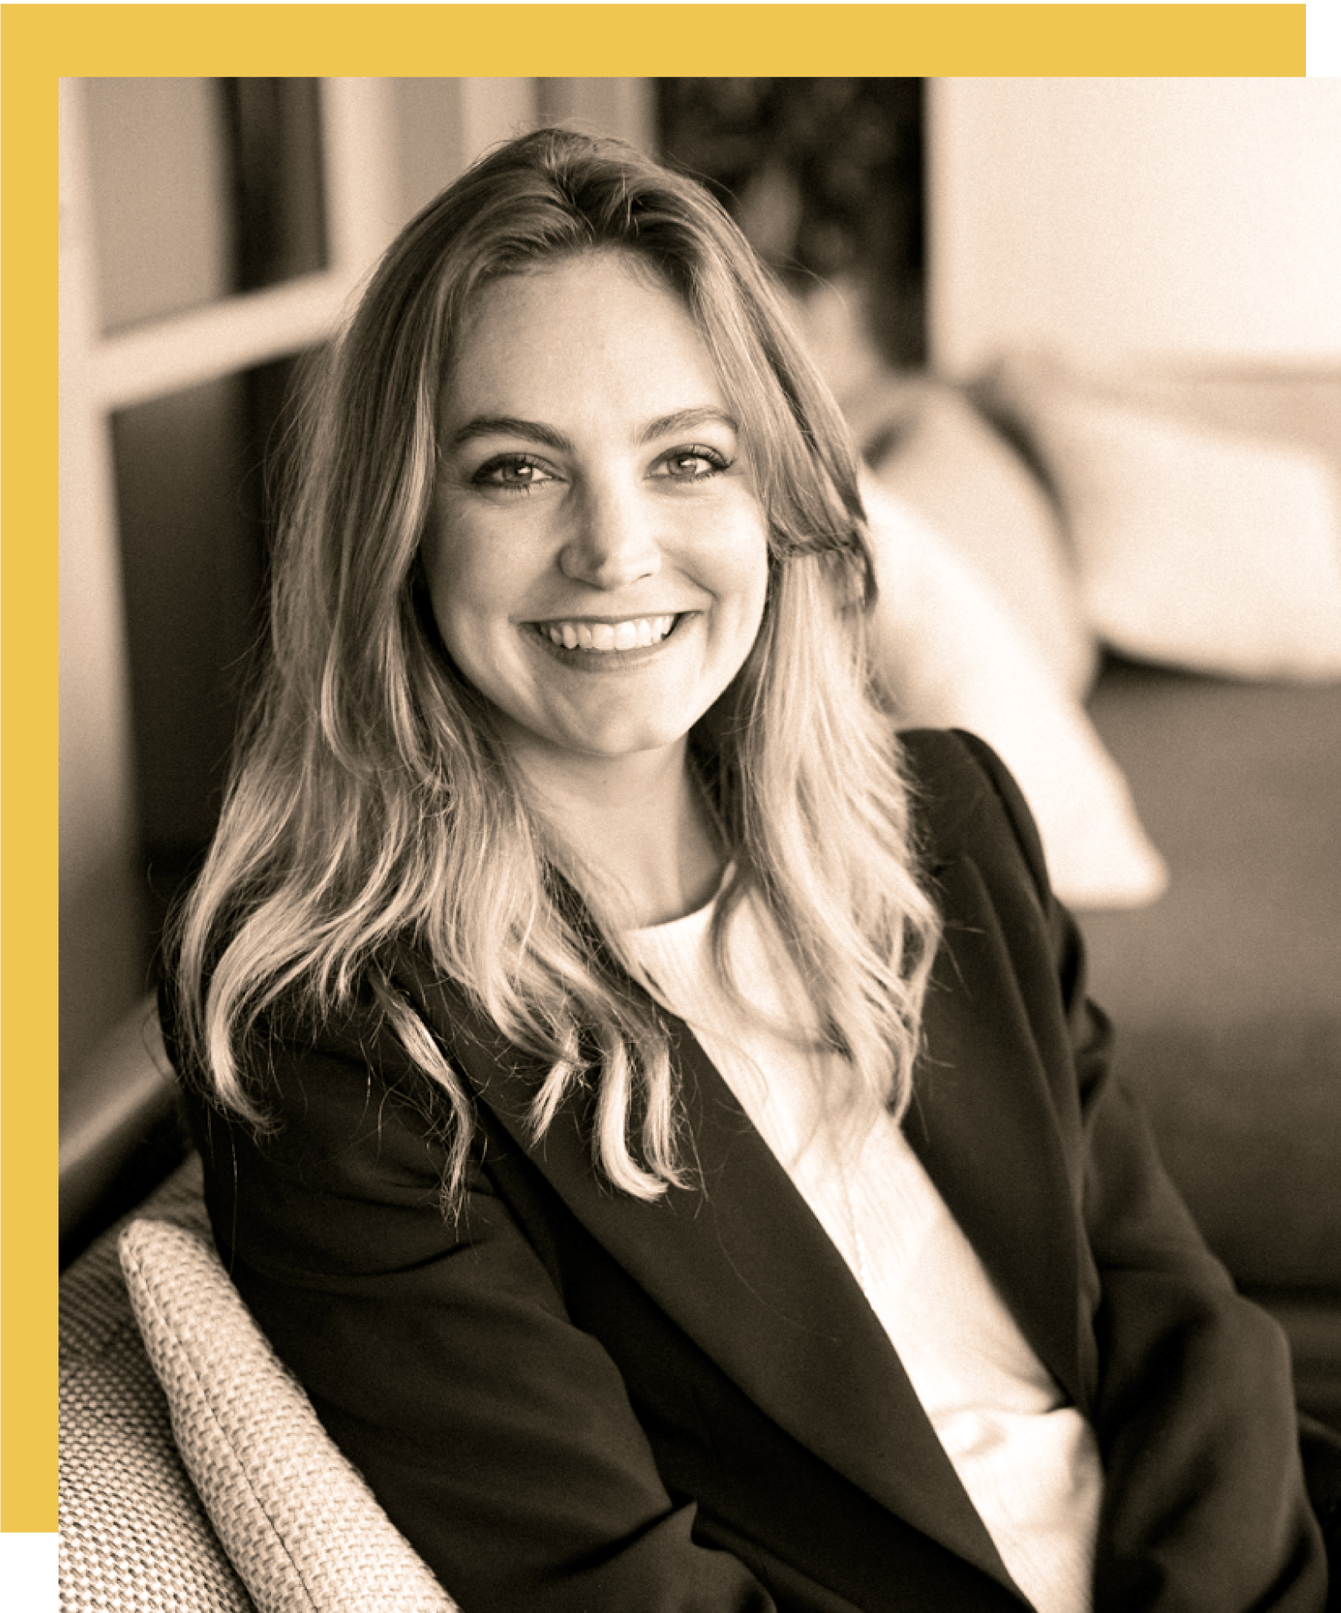
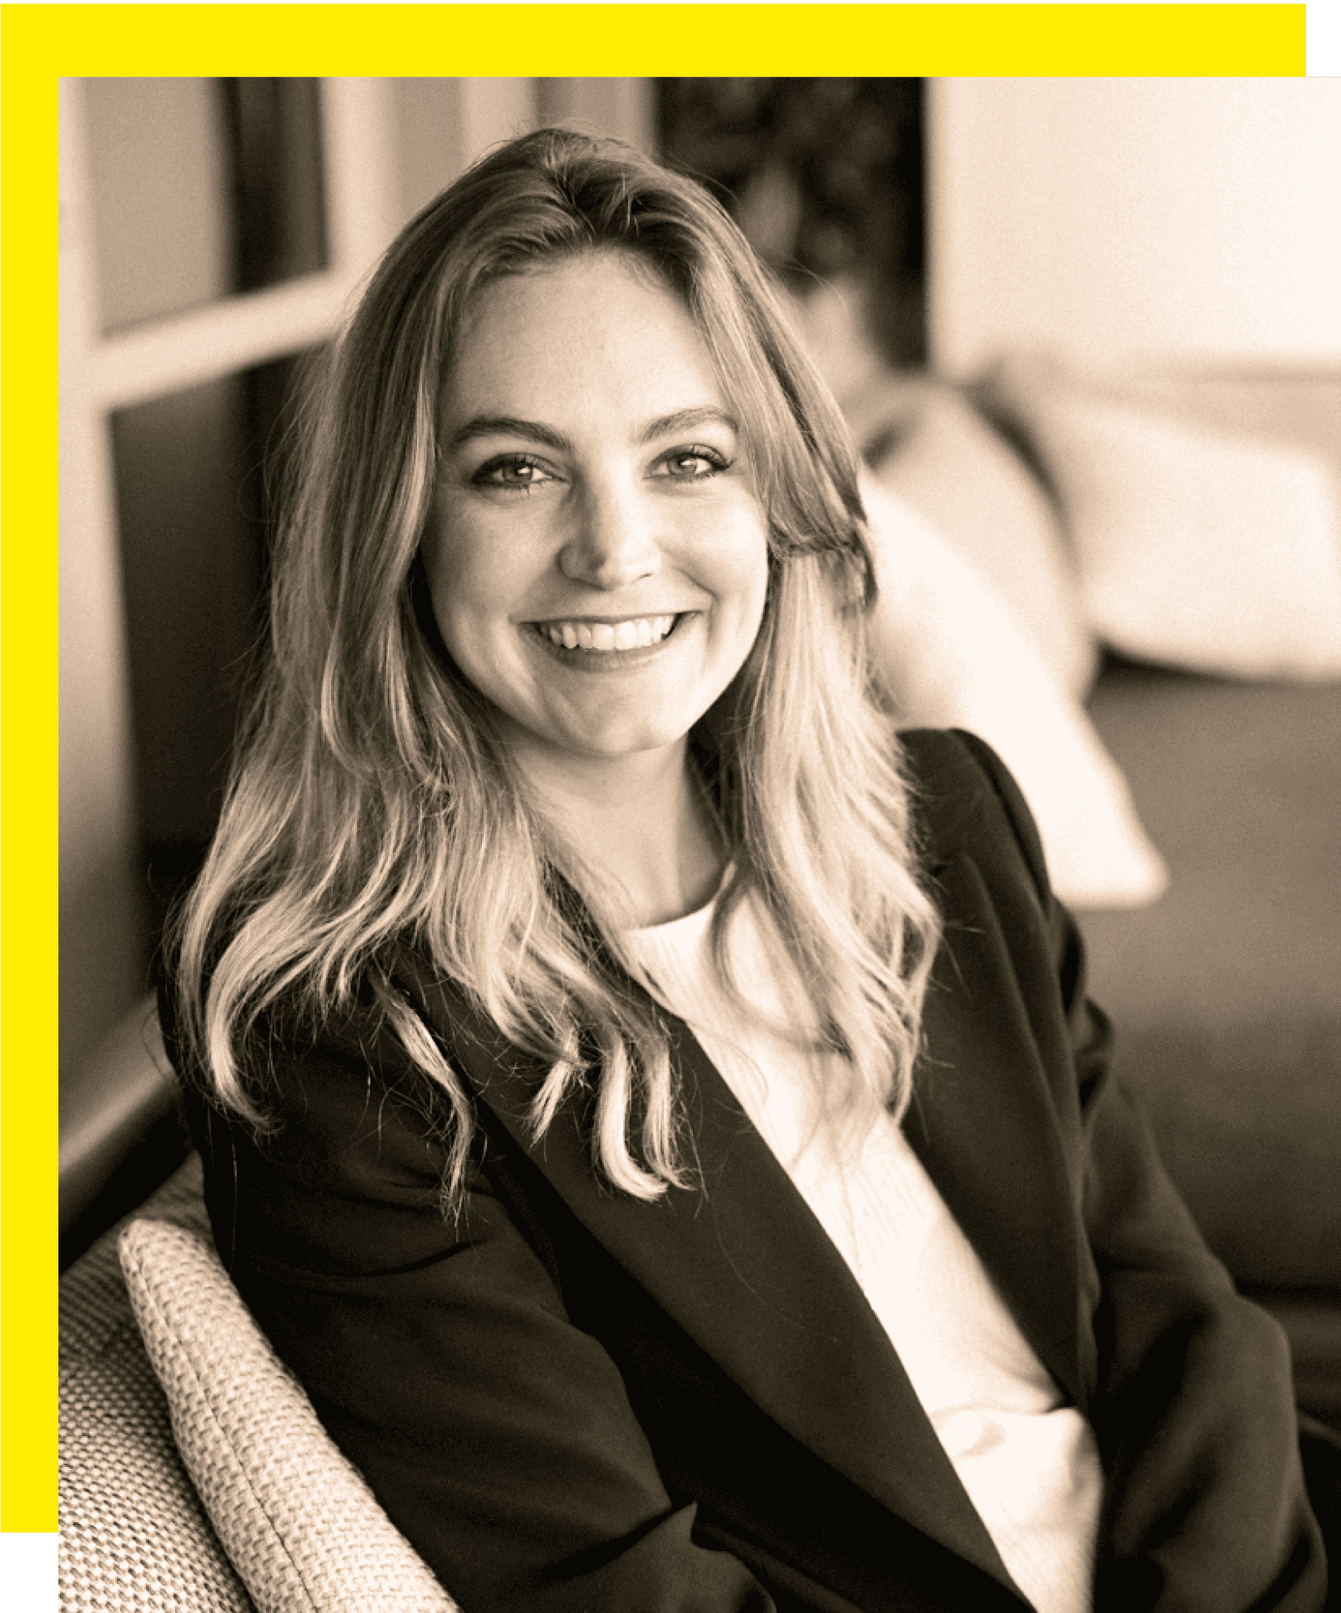
new da

Changed region(s): [[0.0, 0.0, 0.995, 0.9622]]

diff --git a/src/pages/Series.jsx b/src/pages/Series.jsx
@@ -95,24 +95,24 @@ function Series() {
         <section className="series-section synopsis">
           <div className="synopsis-text">
             <p>
-              <strong>DEEPBLUE</strong>, the once-legendary French cycling team, is shattered after a spectacular crash during a stage of the Tour de France. <strong>NORA</strong>, a ruthless and opportunistic businesswoman, seizes the opportunity to buy the team for next to nothing, with the goal of restructuring it and turning a profit. A complete outsider to the cycling world, she makes bold and radical decisions that upend the team's balance and challenge the methods of its long-standing sports director. She manages to convince Matteo, the aging star rider, to stay with Deepblue. But that choice comes at a cost: Caterina, his mother and manager, breaks away and follows Andres, Matteo's most loyal teammate, who now becomes his fiercest rival as the new leader of a powerful competing team.
+              <strong>DEEPBLUE</strong>, the once-legendary French cycling team, is shattered after a spectacular crash during a stage of the Tour de France. <strong>Nora</strong>, a ruthless and opportunistic businesswoman, seizes the opportunity to buy the team for next to nothing, with the goal of restructuring it and turning a profit. A complete outsider to the cycling world, she makes bold and radical decisions that upend the team's balance and challenge the methods of its long-standing sports director. She manages to convince Mathias, the aging star rider, to stay with Deepblue. But that choice comes at a cost: Caterina, his mother and manager, breaks away and follows Andrea, Mathias's most loyal teammate, who now becomes his fiercest rival as the new leader of a powerful competing team.
             </p>
             <p>
-              <strong>Nora</strong> must now rebuild a team around <strong>Matteo</strong>, scouting for riders who are hungry, reckless and cheap. Outsiders with nothing to lose, fueled by an untamable will to win. That's how she discovers Ayden, a raw cycling prodigy working as a Deliveroo courier. His raw power and wild flair seal the deal.
+              <strong>Nora</strong> must now rebuild a team around <strong>Mathias</strong>, scouting for riders who are hungry, reckless and cheap. Outsiders with nothing to lose, fueled by an untamable will to win. That's how she discovers Ayden, a raw cycling prodigy working as a Deliveroo courier. His raw power and wild flair seal the deal.
             </p>
             <p>
-              As Nora experiences the sheer magnitude and public fervor of the Tour de France, she begins to grasp just how massive and lucrative this free-to-watch event could be. Together with her partner Raphaël, she hatches a plan to monetize this traveling spectacle. But the lines between business and emotion quickly blur, especially as her relationship with Matteo, charged with admiration and power dynamics, turns increasingly passionate and complex. Caught in a love triangle that threatens to implode everything she's built, Nora finds herself torn. But through her growing bond with Matteo and the team, she's exposed to a world where sacrifice, pain (both physical and emotional), brotherhood and collective strength outweigh profit. The roaring crowds, a budding romance, and Ayden's meteoric rise under her wing force her to confront her contradictions. In trying to exploit the Tour, she might just destroy what makes it sacred. Once cynical and disconnected from the values of sport, Nora learns to reconnect with her working-class roots and embrace her own vulnerability, ultimately risking everything to save the Tour by blowing the whistle on her own plan.
+              As Nora experiences the sheer magnitude and public fervor of the Tour de France, she begins to grasp just how massive and lucrative this free-to-watch event could be. Together with her partner Raphaël, she hatches a plan to monetize this traveling spectacle. But the lines between business and emotion quickly blur, especially as her relationship with Mathias, charged with admiration and power dynamics, turns increasingly passionate and complex. Caught in a love triangle that threatens to implode everything she's built, Nora finds herself torn. But through her growing bond with Mathias and the team, she's exposed to a world where sacrifice, pain (both physical and emotional), brotherhood and collective strength outweigh profit. The roaring crowds, a budding romance, and Ayden's meteoric rise under her wing force her to confront her contradictions. In trying to exploit the Tour, she might just destroy what makes it sacred. Once cynical and disconnected from the values of sport, Nora learns to reconnect with her working-class roots and embrace her own vulnerability, ultimately risking everything to save the Tour by blowing the whistle on her own plan.
             </p>
             <p>
-              <strong>Matteo</strong>, the team's longtime superstar, is haunted by the crash he caused the previous season, one that landed his teammate Thibault in critical condition. The accident didn't just injure Matteo physically; it fractured the team and pushed him away from his loved ones, including his own son, now terrified to watch him race. Matteo embarks on this new season torn between guilt, a burning obsession to win, and a creeping fear of being overtaken by the next generation. He refuses to accept that his career might be over, and he's not ready to share the spotlight. But with Ayden's arrival, championed by Nora, he has no choice. The young prodigy soon surpasses him, seizing the yellow jersey. Through an extraordinary Tour de France, Matteo will finally discover the true meaning of being part of a team and what really matters. Only then will he be able to pass the torch.
+              <strong>Mathias</strong>, the team's longtime superstar, is haunted by the crash he caused the previous season, one that landed his teammate Thibault in critical condition. The accident didn't just injure Mathias physically; it fractured the team and pushed him away from his loved ones, including his own son, now terrified to watch him race. Mathias embarks on this new season torn between guilt, a burning obsession to win, and a creeping fear of being overtaken by the next generation. He refuses to accept that his career might be over, and he's not ready to share the spotlight. But with Ayden's arrival, championed by Nora, he has no choice. The young prodigy soon surpasses him, seizing the yellow jersey. Through an extraordinary Tour de France, Mathias will finally discover the true meaning of being part of a team and what really matters. Only then will he be able to pass the torch.
             </p>
             <p>
-              <strong>Ayden</strong>, a rebellious, solitary orphan, is Nora's wild-card recruit, an unlikely contender for the Tour. A Deliveroo courier with magnetic and insolent energy, he masks his lack of grounding and deep fear of abandonment with a fierce, almost self-destructive drive to win. Convinced he can only rely on himself, he joins Deepblue as a rogue element, challenging Matteo and captivating France with his explosive performances. But over time, Ayden realizes that victory isn't just about individual strength. Embraced by the team, he lets go of his lone-wolf mentality and finally finds the family he never had.
+              <strong>Ayden</strong>, a rebellious, solitary orphan, is Nora's wild-card recruit, an unlikely contender for the Tour. A Deliveroo courier with magnetic and insolent energy, he masks his lack of grounding and deep fear of abandonment with a fierce, almost self-destructive drive to win. Convinced he can only rely on himself, he joins Deepblue as a rogue element, challenging Mathias and captivating France with his explosive performances. But over time, Ayden realizes that victory isn't just about individual strength. Embraced by the team, he lets go of his lone-wolf mentality and finally finds the family he never had.
             </p>
           </div>
         <div className='theme-summary'></div>
         </section>
-                            <div className='roues-div'>
+                            {/* <div className='roues-div'>
 
     <img
           className="roues-item"
@@ -120,7 +120,7 @@ function Series() {
           alt="loading"
         />  
 
-        </div>
+        </div> */}
         <section className="series-section themes">
             <div className='series-section-title'>
     <img
@@ -143,7 +143,7 @@ function Series() {
               These two champions will clash all season long in a gripping and relentless battle for leadership. Their rivalry echoes the great sports duels (Ronaldo/Messi, Nadal/Federer, Lauda/Hunt) <span className="highlight"><strong>with one key difference: they're on the same team.</strong></span>
             </p>
             <p>
-              That's the tragic paradox of professional cycling: while the work is collective, only one can claim glory on the Champs-Élysées. After a chaotic season of preparation, seen through Nora's fresh outsider lens, the team pulls off a surprise victory in the very first week of the Tour. Against all odds, Ayden dethrones Matteo and seizes the yellow jersey, becoming the center of a media frenzy.
+              That's the tragic paradox of professional cycling: while the work is collective, only one can claim glory on the Champs-Élysées. After a chaotic season of preparation, seen through Nora's fresh outsider lens, the team pulls off a surprise victory in the very first week of the Tour. Against all odds, Ayden dethrones Mathias and seizes the yellow jersey, becoming the center of a media frenzy.
             </p>
             <p>
               Could a Frenchman finally win the Tour de France for the first time since 1985?
@@ -158,10 +158,10 @@ function Series() {
               Three perspectives. Three journeys. Who have no business being here, yet who will come together, for better or worse, and leave their mark on the most grueling competition in the history of sports: the third most-watched sporting event in the world after the FIFA World Cup and the Olympics, held every year!
             </p>
             <p>
-              This is an immersive dive into the heart of a team, following its journey from rebuilding to triumph, told through powerful themes: rivalry, of course, as the foundation of any competition, but also the collision of two starkly different paths. Matteo, the golden boy who never quite lived up to expectations, now wrestling with the twilight of his career; and Ayden, a magnetic daredevil and orphan, who brings an unprecedented surge of hope to a nation.
+              This is an immersive dive into the heart of a team, following its journey from rebuilding to triumph, told through powerful themes: rivalry, of course, as the foundation of any competition, but also the collision of two starkly different paths. Mathias, the golden boy who never quite lived up to expectations, now wrestling with the twilight of his career; and Ayden, a magnetic daredevil and orphan, who brings an unprecedented surge of hope to a nation.
             </p>
             <p>
-              Drama and intimacy strike: the forbidden love story between Matteo and Nora, Ayden's painful past resurfacing, Nora's fractured family, and the lingering trauma of Thibault's accident that haunts them all, a constant reminder of how deadly this sport can be.
+              Drama and intimacy strike: the forbidden love story between Mathias and Nora, Ayden's painful past resurfacing, Nora's fractured family, and the lingering trauma of Thibault's accident that haunts them all, a constant reminder of how deadly this sport can be.
             </p>
             <p className="highlight-block">
               LE TOUR DE FRANCE remains, above all, a resolutely sports-driven and action-packed series.
@@ -173,13 +173,13 @@ function Series() {
               The show explores the power of the collective without shying away from the quiet deals, the big plays, the betrayals, and the raw humanity behind the rider once the helmet, glasses, and jersey come off.
             </p>
             <p>
-              Ultimately, the story is about cohesion and reconciliation. Rivals forced to unite. Generations clashing and finding common ground. And deeply personal reckonings with one's past, one's roots, and one's wounds. Nora, Matteo, and Ayden each learn to rise above their pride, grudges, and fears, to reclaim the meaning of their own story.
+              Ultimately, the story is about cohesion and reconciliation. Rivals forced to unite. Generations clashing and finding common ground. And deeply personal reckonings with one's past, one's roots, and one's wounds. Nora, Mathias, and Ayden each learn to rise above their pride, grudges, and fears, to reclaim the meaning of their own story.
             </p>
           </div>
           <div className='arena-summary'></div>
         </section>
 
-                            <div className='roues-div'>
+                            {/* <div className='roues-div'>
 
     <img
           className="roues-item"
@@ -187,7 +187,7 @@ function Series() {
           alt="loading"
         />  
 
-        </div>
+        </div> */}
 
         <section className="series-section arena">
             <div className='series-section-title'>
@@ -222,7 +222,7 @@ function Series() {
 
         </section>
 
-                            <div className='roues-div'>
+                            {/* <div className='roues-div'>
 
     <img
           className="roues-item"
@@ -230,43 +230,8 @@ function Series() {
           alt="loading"
         />  
 
-        </div>
-<section className="series-section arena">
-            <div className='series-section-title'>
-    <img
-          className="imgthemes"
-          src={moodboardtitle}
-          alt="loading"
-        />  
-
-            </div>
-                            <div className='line-div'>
-
-    <img
-          className="separator-item"
-          src={line}
-          alt="loading"
-        />  
-
-        </div>
-             <div className="arena-content">
-
-          </div>
-        </section>
-
-        
+        </div> */}
       </div>
-      
-                                <Moodboard/>
-                                                            <div className='roues-div'>
-
-    <img
-          className="roues-item"
-          src={roues}
-          alt="loading"
-        />  
-
-        </div>
 
     </div>
   );

diff --git a/src/pages/Scripts.css b/src/pages/Scripts.css
@@ -96,7 +96,7 @@ clip-path: polygon(2% 0, 100% 0, 80% 100%, 0 100%);
 padding-top: 4dvh;
   color: #000;
   line-height: 1.8;
-  border-top: 7px solid #EFC650;
+  border-top: 7px solid #FFEC00;
 
 }
 
@@ -158,7 +158,7 @@ padding-top: 4dvh;
     width: 95%;
 
 }
-.title-wrapper::before {
+/* .title-wrapper::before {
   content: "";
   position: absolute;
   left: -6dvw;
@@ -166,9 +166,9 @@ padding-top: 4dvh;
   width: 10dvw;
   height:10dvh;
   background-image: url("../assets/roue.png");
-  background-size: contain;     /* adapte à la taille */
+  background-size: contain;    
   background-repeat: no-repeat;
-}
+} */
 /* .title-wrapper::after {
   content: "";
   position: absolute;
@@ -185,16 +185,16 @@ padding-top: 4dvh;
 .ds{
   width: 14dvh;
 }
-  .title-wrapper::before {
+  /* .title-wrapper::before {
   content: "";
   position: absolute;
   top: 0;
   width: 12dvw;
   height:12dvh;
   background-image: url("../assets/roue.png");
-  background-size: contain;     /* adapte à la taille */
+  background-size: contain;     
   background-repeat: no-repeat;
-}
+} */
     .route{
     width: 80%;
     align-self: center;

diff --git a/src/pages/Talents.jsx b/src/pages/Talents.jsx
@@ -4,7 +4,7 @@ import './Talents.css'
 import React, { useState, useEffect } from 'react';
 import Sommaire from '../components/Summary.jsx'
 import creators from '../assets/creators.png'
-import producers from '../assets/producers.jpg'
+import producers from '../assets/producers.png'
 import theprod from '../assets/theprod.png'
 import pascal from '../assets/pascal.jpg'
 import judith from '../assets/judith.jpg'
@@ -277,14 +277,6 @@ Federation International, the strong distribution arm of the company has been bu
 
 
         <div className="director-section-content">
-
-          <div className="director-title">
-             <img
-                className="director-title-img"
-                src={theprod}
-                alt="loading"
-              />  
-          </div>
 
           <div className="director-content">
             <div className="director-img">

diff --git a/src/App.js b/src/App.js
@@ -9,6 +9,8 @@ import Series from './pages/Series';
 import Contacts from './pages/Contacts';
 import Talents from './pages/Talents';
 import NotFound from './pages/NotFound';
+import MoodbardPage from './pages/MoodboardPage.jsx'; 
+
 import Header from './components/Header'; 
 import Footer from './components/Footer'; 
 import ScrollToTopButton from './components/ScrollToTopButton.jsx';
@@ -32,6 +34,7 @@ function App() {
             <Routes>
               
               <Route path="/" element={<Home />} />
+              <Route path="/moodboard" element={<MoodbardPage />} />
               <Route path="/the-series" element={<Series />} />
               <Route path="/scripts" element={<Scripts />} />
               <Route path="/an-outstanding-production" element={<Production />} />

diff --git a/src/components/Header.jsx b/src/components/Header.jsx
@@ -36,8 +36,8 @@ function Header() {
 
         {/* Menu de navigation */}
         <ul className={`nav-menu ${isMenuOpen ? 'open' : ''}`}>
-          {/* <li><Link to="/" onClick={closeMenu}>Home</Link></li> */}
           <li><Link to="/the-series" onClick={closeMenu}>The Series</Link></li>
+          <li><Link to="/moodboard" onClick={closeMenu}>Moodbard</Link></li>
           <li><Link to="/scripts" onClick={closeMenu}>Scripts</Link></li>
           <li><Link to="/an-outstanding-production" onClick={closeMenu}>An outstanding production</Link></li>
           <li><Link to="/talents" onClick={closeMenu}>Talents</Link></li>

diff --git a/src/components/Footer.jsx b/src/components/Footer.jsx
@@ -23,7 +23,7 @@ function Footer() {
           {/* Colonne 3 */}
           <div className="footer-column">
             <Link to="/production" className="footer-title">An outstanding production</Link>
-            <Link to="/production#directors-cut" className="footer-link">Director's cut</Link>
+            <Link to="/production#directors-cut" className="footer-link">Director's note</Link>
             <Link to="/production#writers-note" className="footer-link">Writer's note</Link>
             <Link to="/production#ip" className="footer-link">The IP</Link>
           </div>

diff --git a/src/pages/Talents.css b/src/pages/Talents.css
@@ -68,10 +68,8 @@ padding-top: 5dvh;
 
 .director-content {
   display: flex;
-  align-items: flex-start;
+  align-items: center;
   gap: 40px;
-   align-items: center;        /* centre verticalement */
-  justify-content: center;    /* centre horizontalement */
 }
 
 /* Image du réalisateur */
@@ -95,7 +93,7 @@ padding-top: 5dvh;
   font-weight: bold;
   margin-bottom: 20px;
     font-family: 'Akrobat-ExtraBold', sans-serif;
-  border-bottom: 8px solid #EFC650;
+  border-bottom: 8px solid #FFEC00;
   width: 50%;
 }
 

diff --git a/src/pages/Contacts.jsx b/src/pages/Contacts.jsx
@@ -1,7 +1,7 @@
 // src/pages/Contact.js
 import React, { useState, useEffect } from 'react';
 import './Contacts.css'
-import contactsbg from "../assets/contactsbg.jpg";
+import contactsbg from "../assets/contacts.jpg";
 import ScrollToTopButton from '../components/ScrollToTopButton.jsx'
 import prod from '../assets/prod.png'
 import sales from '../assets/sale.png'

diff --git a/src/pages/Scripts.jsx b/src/pages/Scripts.jsx
@@ -1,6 +1,6 @@
 // src/pages/Home.js
 import scriptsbg from "../assets/scripts-bg.jpg";
-import scriptsbgtel from "../assets/scripts-bg-tel.jpg";
+import scriptsbgtel from "../assets/scripts-bg.jpg";
 import episode1 from "../assets/episode1.jpg";
 import episode2 from "../assets/episode2.png";
 import episode3 from "../assets/episode3.png";

diff --git a/src/App.css b/src/App.css
@@ -33,8 +33,7 @@ html, body {
   width: 100%;
   overflow-x: hidden;
 font-family: 'Akrobat-regular', sans-serif;
-    background-image: url("./assets/bg.jpg");
-
+background-color: white;
 }
 
 /* Structure principale : Header, Main, Footer */

diff --git a/src/components/PasswordProtection.css b/src/components/PasswordProtection.css
@@ -61,7 +61,7 @@
   outline: none;
 
   /* Bordure trapèze */
-  border: 3px solid #EFC650;
+  border: 3px solid #FFEC00;
   clip-path: polygon(10% 0, 100% 0, 90% 100%, 0 100%);
 
   /* Centrer le texte + placeholder */

diff --git a/src/pages/MoodboardPage.jsx b/src/pages/MoodboardPage.jsx
@@ -1,0 +1,10 @@
+function MoodboardPage(){
+
+    return(
+        <div className="moodbard-containers">
+
+        </div>
+    )
+}
+
+export default MoodboardPage
